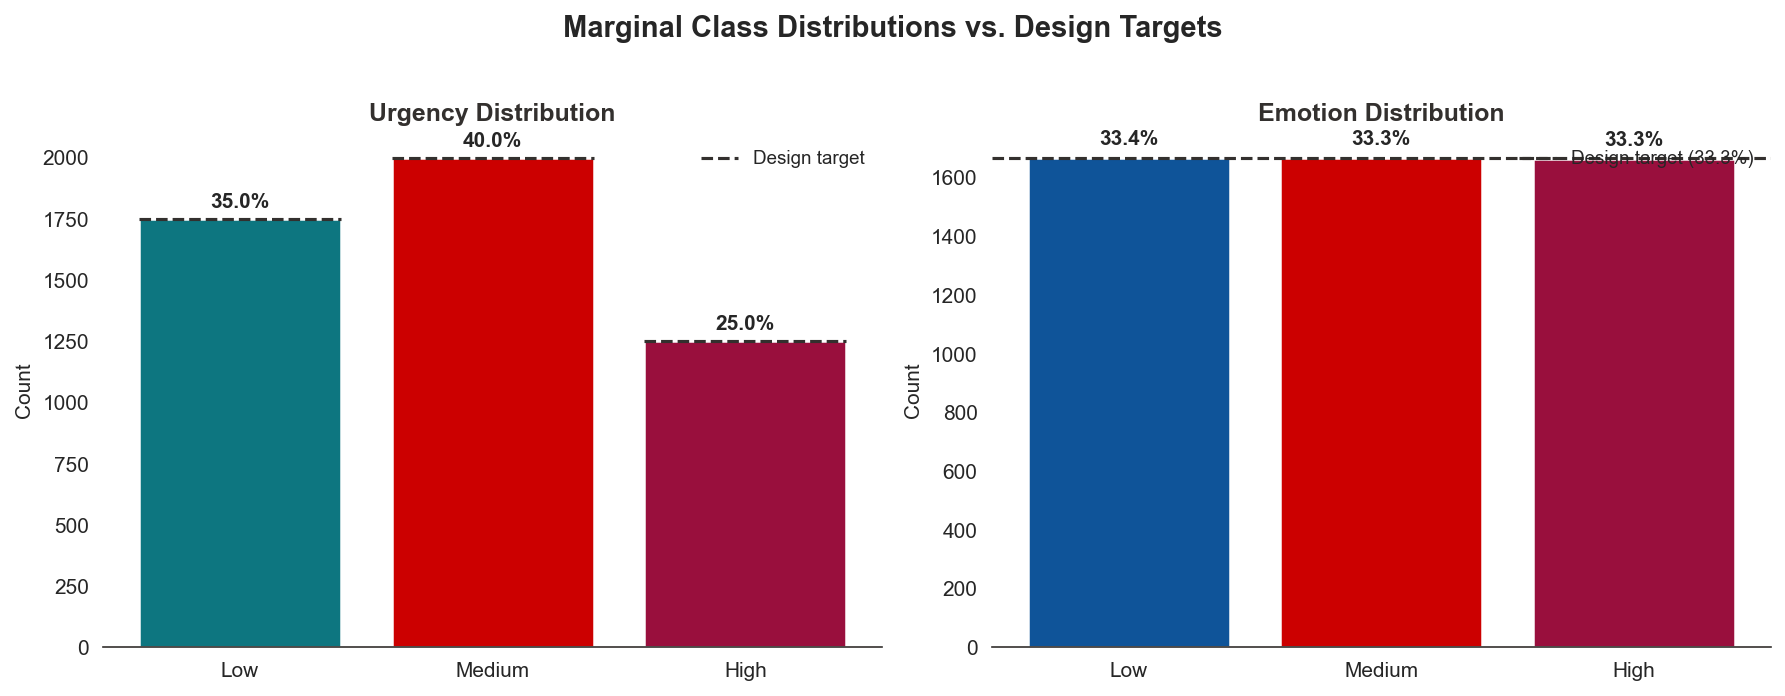
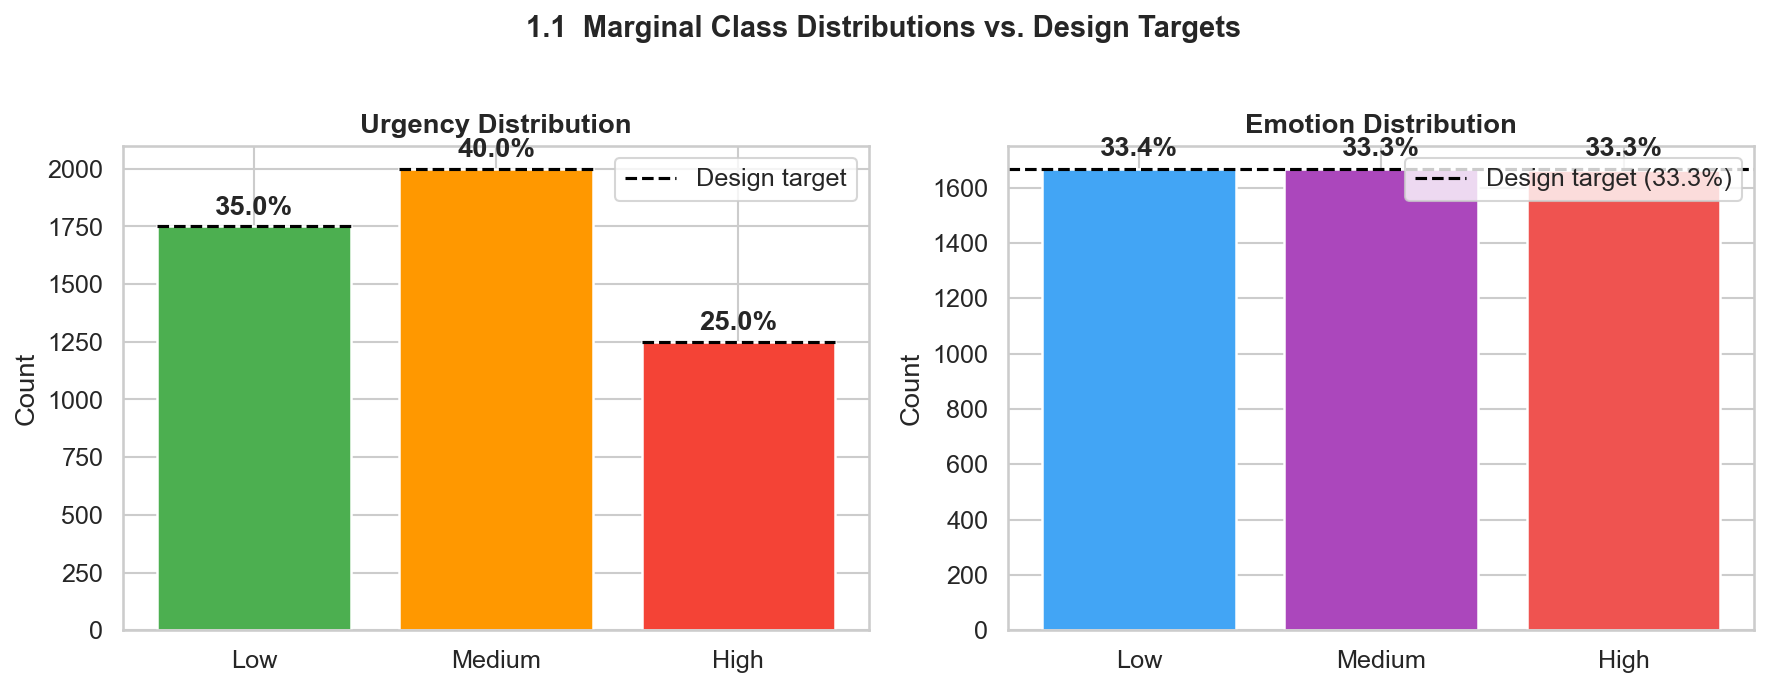
new visualization and report section

diff --git a/report/plot_training_runs.py b/report/plot_training_runs.py
@@ -35,13 +35,13 @@ RUN_LABELS = {
 
 # ── Academic style globals ─────────────────────────────────────────────────────
 FONT_FAMILY = "serif"
-FONT_SIZE_BASE = 9
-FONT_SIZE_TITLE = 11
-FONT_SIZE_LABEL = 10
-FONT_SIZE_TICK = 8.5
-FONT_SIZE_ANNOT = 7.5
-FONT_SIZE_LEGEND = 8.5
-FONT_SIZE_SECTION = 8.5
+FONT_SIZE_BASE = 11
+FONT_SIZE_TITLE = 13
+FONT_SIZE_LABEL = 12
+FONT_SIZE_TICK = 10.5
+FONT_SIZE_ANNOT = 9.5
+FONT_SIZE_LEGEND = 10.5
+FONT_SIZE_SECTION = 10.5
 
 COLOR_URGENCY = "#2166AC"   # deep steel blue
 COLOR_EMOTION = "#B2182B"   # dark crimson
@@ -316,7 +316,7 @@ def plot(runs: list[dict]):
         xytext=(6, -4),
         textcoords="offset points",
         va="top", ha="left",
-        fontsize=7.5, fontstyle="italic", color="#555555",
+        fontsize=9.5, fontstyle="italic", color="#555555",
         fontfamily=FONT_FAMILY,
     )
 

diff --git a/model_training/download_model.py b/model_training/download_model.py
@@ -26,4 +26,4 @@ snapshot_download(
 print("\nDownload complete.")
 print("Next steps:")
 print("  Run adversarial test : python model_training/adversarial_test.py")
-print("  Run training         : python model_training/train.py")
+print("  Run training         : python model_training/train_deberta.py")

diff --git a/report/data_section.md b/report/data_section.md
@@ -2,7 +2,7 @@
 
 ## 2.1 Why Synthetic Data
 
-No publicly available dataset provides dual ground-truth labels for both urgency and emotional intensity in customer complaints. Existing open complaint corpora, such as the Consumer Financial Protection Bureau dataset, are either unlabelled on these dimensions, domain-mismatched, or annotated for sentiment alone. Real-world telecoms complaints additionally carry privacy constraints that limit redistribution. Generating synthetic data allowed us to guarantee label correctness by design: rather than annotating text post-hoc and reconciling inter-annotator disagreement, we instructed the generation model to write each complaint to a specified urgency and emotion level, making the intended label the ground truth by construction.
+No publicly available dataset provides dual ground-truth labels for both urgency and emotional intensity in customer complaints. Existing open complaint corpora, such as the Consumer Financial Protection Bureau dataset, are either unlabelled on these dimensions, domain-mismatched, or annotated for a single dimension only. Those that do include emotional annotation rarely capture operational severity simultaneously, and those labelled for severity tend to treat emotional expression as secondary or absent altogether. The two dimensions are seldom framed as independent classification targets in publicly available resources. Real-world telecoms complaints additionally carry privacy constraints that limit redistribution. Generating synthetic data allowed us to guarantee label correctness by design: rather than annotating text post-hoc and reconciling inter-annotator disagreement, we instructed the generation model to write each complaint to a specified urgency and emotion level, making the intended label the ground truth by construction.
 
 ## 2.2 Dataset Design and Generation
 
@@ -26,16 +26,16 @@ Each complaint is assigned four characteristics prior to generation, ensuring li
 
 No two complaints within the same grid cell share an identical combination of all four characteristics, preventing the model from learning repetitive patterns. A scenario-urgency affinity map further enforces realism by restricting which scenarios may appear at each urgency level; for example, "Complete Service Outage" is restricted to High urgency only. The full affinity map is provided in the Appendix.
 
-Complaints were generated using GPT-5-mini in batches of five, with up to ten batches running in parallel. Each batch prompt included urgency and emotion level definitions, a tone instruction specifying how emotion should manifest through word choice and sentence structure rather than through explicit vocabulary, and the four assigned characteristics for each complaint. Incomplete or malformed batches were retried automatically up to twice.
+Complaints were generated using GPT-5-mini in batches of five, with up to ten batches running in parallel. Each batch prompt included urgency and emotion level definitions, a tone instruction specifying how emotion should manifest through word choice and sentence structure rather than through explicit vocabulary, and the four assigned characteristics for each complaint. To prevent stylistic convergence across 5,000 complaints, three distinct system prompt templates were rotated across batches. Each template conveyed the same core generation instruction but varied in framing and persona guidance, ensuring that surface-level phrasing patterns in the generated text could not be traced back to a single prompt formulation. 
 
 ## 2.3 Dataset Versioning and Quality Validation
 
 Model performance on held-out data was used as a diagnostic signal for dataset quality, with three successive versions produced before the dataset was finalised.
 
-The first version applied explicit vocabulary instructions per emotion level and restricted which writing styles could appear at each emotion level. The fine-tuned classifier achieved an emotion macro F1 of 0.99 (macro F1 is defined in Section 3.4), which indicated data leakage rather than genuine classification. The model had learned a vocabulary lookup table and a style-to-emotion mapping, neither of which required any understanding of the complaint text.
+The first version applied explicit vocabulary instructions per emotion level and restricted which writing styles could appear at each emotion level. This introduced data leakage: the model learned a vocabulary lookup table and a style-to-emotion mapping rather than any genuine understanding of the complaint text, producing unrealistically high emotion classification performance.
 
-The second version removed both artefacts. All eight writing styles were permitted at all emotion levels, and vocabulary instructions were replaced with structural tone guidance. Intentional ambiguity was introduced at class boundaries so that Medium emotion, in particular, could not be resolved by any single lexical signal. Emotion macro F1 fell to 0.87, a more credible result. However, urgency macro F1 plateaued at 0.62 across all hyperparameter configurations, which pointed to a residual data quality problem rather than a modelling limitation. Human inspection of a sample of second-version complaints further revealed instances of label-complaint mismatch, where the generated text did not faithfully reflect its assigned urgency or emotion level, providing direct qualitative confirmation of the quantitative signal.
+The second version removed both artefacts by permitting all writing styles at all emotion levels and replacing vocabulary instructions with structural tone guidance. Intentional ambiguity was introduced at class boundaries so that no single lexical signal could resolve the emotion class. Despite this, urgency classification plateaued across all hyperparameter configurations, and human inspection of a sample of complaints revealed further instances of label-complaint mismatch, where the generated text did not faithfully reflect its assigned labels.
 
-The third and final version addressed this by upgrading the generation model from GPT-4o-mini to GPT-5-mini and reducing batch size from 15 to 5 complaints per API call. With larger batches, the generation model exhibited context saturation: writing styles lost distinctiveness across the batch, and Medium urgency complaints became linguistically indistinguishable from adjacent classes. Smaller batches under a stronger model produced more consistent label-to-text fidelity. A manual inspection of a random sample confirmed the qualitative improvement. Distinguishing Medium from adjacent classes remained genuinely difficult even for human reviewers, a difficulty that is reflected in Medium achieving the lowest per-class F1 across all models in Section 4.
+The third and final version addressed this by upgrading the generation model from GPT-4o-mini to GPT-5-mini and reducing batch size from 15 to 5 complaints per API call. With larger batches, the generation model exhibited context saturation, causing writing styles to lose distinctiveness and adjacent urgency classes to become linguistically indistinguishable. Smaller batches under a stronger model produced more consistent label-to-text fidelity. The quantitative impact of these changes is reported in Section 4.
 
 This iterative process reflects a broader principle of synthetic data generation: when the training signal is itself machine-produced, dataset quality engineering can be as consequential as model architecture selection, and model performance serves as a more reliable diagnostic than manual inspection alone.

diff --git a/report/methodology_section.md b/report/methodology_section.md
@@ -6,13 +6,13 @@ The task is formulated as dual multi-class classification: given a customer comp
 
 ## 3.2 Baselines
 
-Three baseline models of increasing complexity were evaluated to contextualise the performance of the fine-tuned model. All baselines were evaluated on the same stratified test split of 750 complaints.
+Three baseline models of increasing representational capacity were evaluated to contextualise the performance of the fine-tuned model, each probing a distinct question about where the classification signal resides. All baselines were evaluated on the same stratified test split of 750 complaints.
 
-**Few-shot Claude Haiku 4.5.** The first baseline uses a large language model with no task-specific training. Nine labelled examples were provided in the system prompt, one for each urgency-by-emotion cell, sampled deterministically from the training set using a fixed seed. Complaints were batched in groups of ten per API call, and the model was prompted to return structured JSON classifications at temperature 0.0. No chain-of-thought reasoning was elicited. This baseline establishes whether a general-purpose LLM can perform the task from definitions and examples alone, without any parameter updates.
+The first baseline, few-shot Claude Haiku 4.5, establishes whether a general-purpose large language model can perform the task from definitions and labelled examples alone, without any parameter updates. Nine labelled examples were provided in the system prompt, one for each urgency-by-emotion cell, sampled deterministically from the training set using a fixed seed. Complaints were batched in groups of ten per API call and the model was prompted to return structured JSON classifications at temperature 0.0, with no chain-of-thought reasoning elicited.
 
-**TF-IDF with Logistic Regression.** The second baseline represents a standard non-neural approach. Complaint texts were vectorised using term frequency-inverse document frequency with unigram and bigram features, a maximum vocabulary of 20,000 terms, and sublinear term frequency scaling. Two independent logistic regression classifiers were trained, one per target dimension, using L2 regularisation with C=1.0 and the LBFGS solver. This baseline isolates the contribution of surface-level lexical features, providing a reference for how much of the classification signal is accessible without any contextual language understanding.
+Where the LLM baseline relies entirely on in-context learning, the second baseline grounds classification in surface-level lexical features. Complaint texts were vectorised using TF-IDF with unigram and bigram features, a maximum vocabulary of 20,000 terms, and sublinear term frequency scaling. Two independent logistic regression classifiers were then trained, one per target dimension, using L2 regularisation with C=1.0 and the LBFGS solver. This approach provides a reference for how much of the classification signal is accessible through word frequency patterns alone, without any contextual language understanding.
 
-**Frozen Sentence-BERT with Logistic Regression.** The third baseline replaces sparse lexical features with dense semantic representations. Complaint texts were encoded using all-MiniLM-L6-v2, a pre-trained sentence transformer producing 384-dimensional embeddings, with all encoder weights frozen. Two independent logistic regression classifiers were again trained on top of these embeddings using the same configuration as the TF-IDF baseline. By keeping the encoder frozen, this baseline isolates the value of general-purpose semantic representations without task-specific adaptation, establishing a lower bound on what fine-tuning adds.
+The third baseline extends this by replacing sparse lexical features with dense semantic representations, while still holding the encoder fixed. Complaint texts were encoded using all-MiniLM-L6-v2, a pre-trained sentence transformer producing 384-dimensional embeddings, with all encoder weights frozen. The same logistic regression configuration was applied on top of these embeddings. By keeping the encoder frozen, this baseline isolates the contribution of general-purpose semantic representations from that of task-specific adaptation, establishing a direct lower bound on what fine-tuning adds over off-the-shelf embeddings.
 
 ## 3.3 Fine-tuned DeBERTa-v3-base
 
@@ -39,6 +39,4 @@ Early stopping monitors the combined validation macro F1, defined as the mean of
 
 ## 3.4 Evaluation Metrics
 
-All models are evaluated using macro-averaged F1 score, defined as the unweighted mean of per-class F1 scores across the three classes. Per-class F1 is the harmonic mean of precision and recall for that class. Macro averaging weights each class equally regardless of its frequency in the test set, which is preferable to accuracy or micro-averaged F1 in the presence of class imbalance: accuracy would be inflated by correct predictions on the majority class (Medium urgency at 40%), while micro-averaging would similarly dilute the contribution of minority classes. Macro F1 penalises models that perform well on frequent classes but poorly on rare ones, providing a more balanced assessment of classification quality across the full label space.
-
-Per-class F1 scores are additionally reported for each model and each dimension, enabling fine-grained comparison of where models succeed and fail across the urgency and emotion spectra.
+All models are evaluated using macro-averaged F1 score, defined as the unweighted mean of per-class F1 scores across the three classes. Per-class F1 is the harmonic mean of precision and recall for that class. Macro averaging weights each class equally regardless of its frequency in the test set, which is preferable to accuracy or micro-averaged F1 in the presence of class imbalance: accuracy would be inflated by correct predictions on the majority class (Medium urgency at 40%), while micro-averaging would similarly dilute the contribution of minority classes. Macro F1 penalises models that perf
